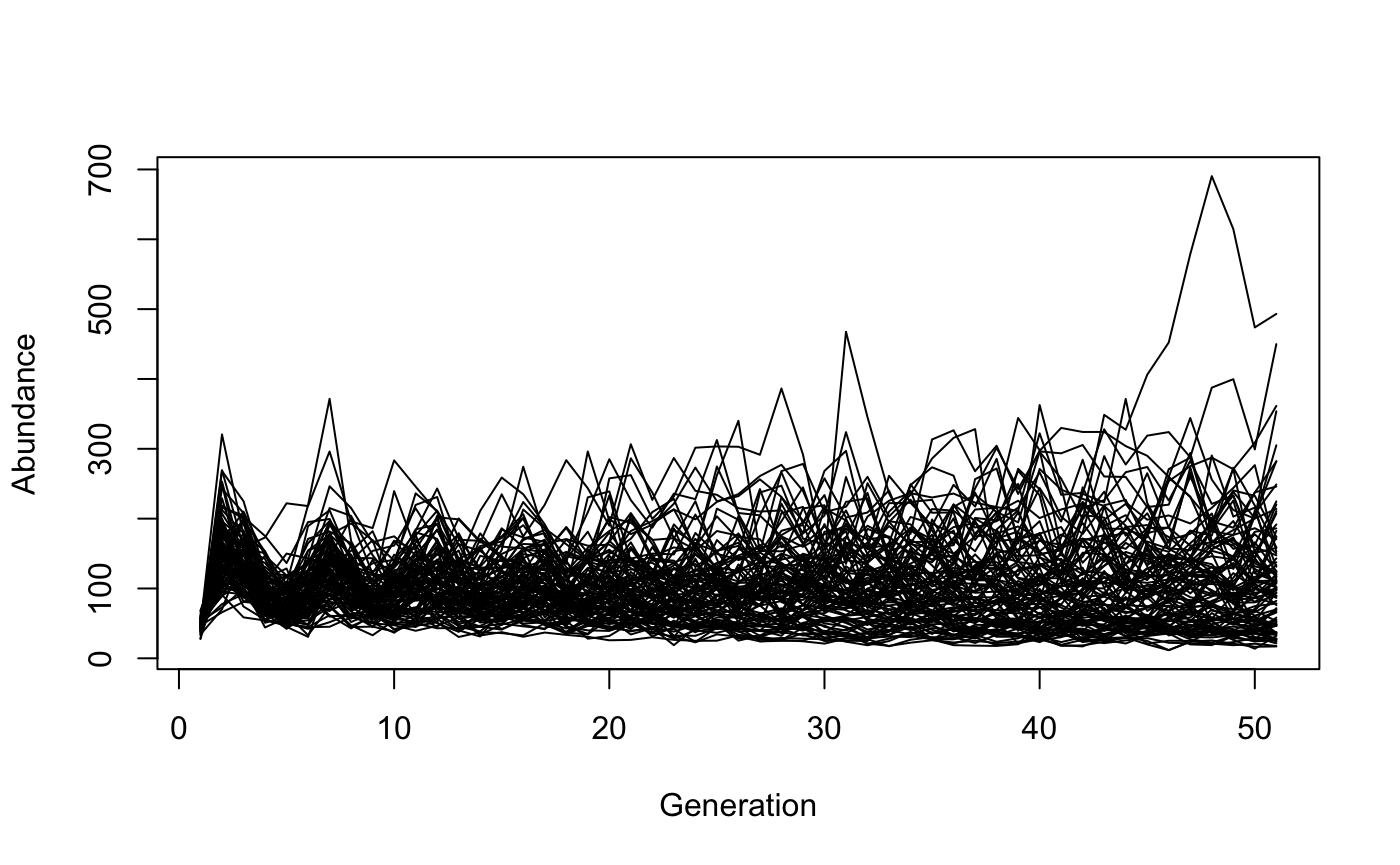
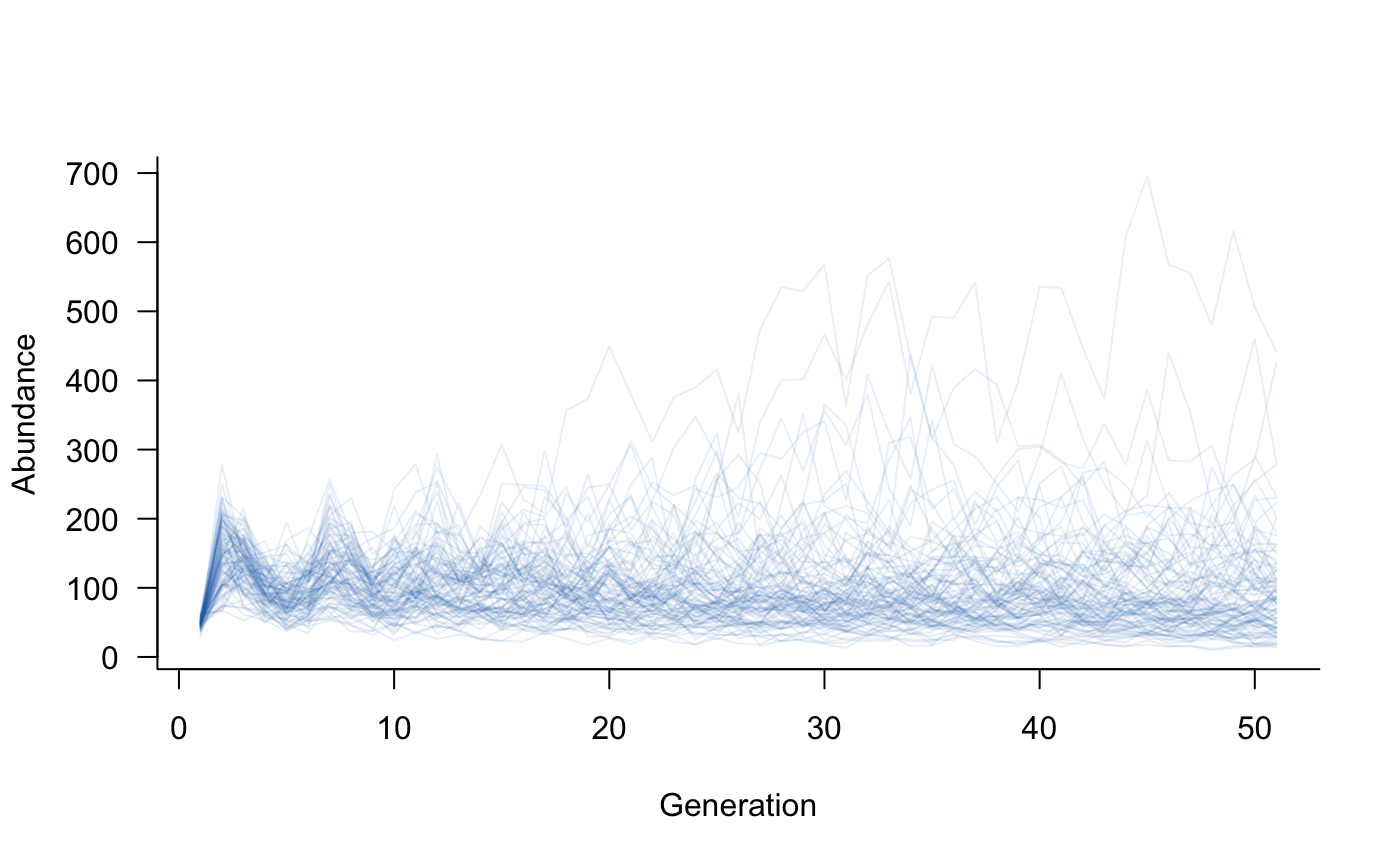
update website and vignettes

diff --git a/docs/articles/get_started.html b/docs/articles/get_started.html
@@ -69,7 +69,10 @@
   </a>
   <ul class="dropdown-menu" role="menu">
 <li>
-      <a href="../articles/macperch_example.html">Macquarie perch population model</a>
+      <a href="../articles/macperch_example.html">Macquarie perch</a>
+    </li>
+    <li>
+      <a href="../articles/scenarios_example.html">Ranking scenarios</a>
     </li>
   </ul>
 </li>
@@ -113,7 +116,13 @@
 <div id="installation-and-setup" class="section level2">
 <h2 class="hasAnchor">
 <a href="#installation-and-setup" class="anchor"></a>Installation and setup</h2>
-<p>You can install the <code>aae.pop</code> package from GitHub. To install from GitHub, you’ll need the <code>remotes</code> R package, which you can install from CRAN with <code><a href="https://rdrr.io/r/utils/install.packages.html">install.packages("remotes")</a></code>. You can then install the <code>aae.pop</code> package from Github with <code><a href="https://rdrr.io/pkg/remotes/man/install_github.html">remotes::install_github("aae.stats/aae.pop@master")</a></code>. Once completed, you should be able to load the <code>aae.pop</code> package with <code><a href="https://aae-stats/github.io/aae.pop">library(aae.pop)</a></code>.</p>
+<p>You can install the <code>aae.pop</code> package from GitHub. To install from GitHub, you’ll need the <code>remotes</code> R package, which you can install from CRAN with:</p>
+<div class="sourceCode" id="cb1"><pre class="downlit">
+<span class="fu"><a href="https://rdrr.io/r/utils/install.packages.html">install.packages</a></span><span class="op">(</span><span class="st">"remotes"</span><span class="op">)</span></pre></div>
+<p>You can then install the <code>aae.pop</code> package from Github with:</p>
+<div class="sourceCode" id="cb2"><pre class="downlit">
+<span class="fu">remotes</span><span class="fu">::</span><span class="fu"><a href="https://rdrr.io/pkg/remotes/man/install_github.html">install_github</a></span><span class="op">(</span><span class="st">"aae-stats/aae.pop"</span><span class="op">)</span></pre></div>
+<p>Once completed, you should be able to load the <code>aae.pop</code> package with <code><a href="https://aae-stats/github.io/aae.pop">library(aae.pop)</a></code>.</p>
 </div>
 <div id="background" class="section level2">
 <h2 class="hasAnchor">
@@ -150,7 +159,7 @@
 <h4 class="hasAnchor">
 <a href="#the-population-matrix" class="anchor"></a>The population matrix</h4>
 <p>A good place to start is with a basic population matrix and no other processes. For example, a Leslie matrix with five age classes can be specified as:</p>
-<div class="sourceCode" id="cb1"><pre class="downlit">
+<div class="sourceCode" id="cb3"><pre class="downlit">
 <span class="va">popmat</span> <span class="op">&lt;-</span> <span class="fu"><a href="https://rdrr.io/r/base/cbind.html">rbind</a></span><span class="op">(</span>
   <span class="fu"><a href="https://rdrr.io/r/base/c.html">c</a></span><span class="op">(</span><span class="fl">0</span>,    <span class="fl">0</span>,    <span class="fl">2</span>,    <span class="fl">4</span>,    <span class="fl">7</span><span class="op">)</span>,  <span class="co"># reproduction from 3-5 year olds</span>
   <span class="fu"><a href="https://rdrr.io/r/base/c.html">c</a></span><span class="op">(</span><span class="fl">0.25</span>, <span class="fl">0</span>,    <span class="fl">0</span>,    <span class="fl">0</span>,    <span class="fl">0</span><span class="op">)</span>,  <span class="co"># survival from age 1 to 2</span>
@@ -159,7 +168,7 @@
   <span class="fu"><a href="https://rdrr.io/r/base/c.html">c</a></span><span class="op">(</span><span class="fl">0</span>,    <span class="fl">0</span>,    <span class="fl">0</span>,    <span class="fl">0.85</span>, <span class="fl">0</span><span class="op">)</span>   <span class="co"># survival from age 4 to 5</span>
 <span class="op">)</span></pre></div>
 <p>Using the terminology above, this same matrix could be specified as:</p>
-<div class="sourceCode" id="cb2"><pre class="downlit">
+<div class="sourceCode" id="cb4"><pre class="downlit">
 <span class="va">new_offspring</span> <span class="op">&lt;-</span> <span class="fu"><a href="https://rdrr.io/r/base/c.html">c</a></span><span class="op">(</span><span class="fl">2</span>, <span class="fl">4</span>, <span class="fl">7</span><span class="op">)</span>
 <span class="va">transition_probabilities</span> <span class="op">&lt;-</span> <span class="fu"><a href="https://rdrr.io/r/base/c.html">c</a></span><span class="op">(</span><span class="fl">0.25</span>, <span class="fl">0.45</span>, <span class="fl">0.70</span>, <span class="fl">0.85</span><span class="op">)</span>
 <span class="va">popmat</span> <span class="op">&lt;-</span> <span class="fu"><a href="https://rdrr.io/r/base/matrix.html">matrix</a></span><span class="op">(</span><span class="fl">0</span>, nrow <span class="op">=</span> <span class="fl">5</span>, ncol <span class="op">=</span> <span class="fl">5</span><span class="op">)</span>
@@ -171,35 +180,37 @@
 <h4 class="hasAnchor">
 <a href="#creating-a-population-dynamics-object" class="anchor"></a>Creating a population <code>dynamics</code> object</h4>
 <p>Once the population matrix is defined, it can be compiled into a <code>dynamics</code> object with the following code:</p>
-<div class="sourceCode" id="cb3"><pre class="downlit">
+<div class="sourceCode" id="cb5"><pre class="downlit">
 <span class="va">popdyn</span> <span class="op">&lt;-</span> <span class="fu"><a href="../reference/dynamics.html">dynamics</a></span><span class="op">(</span><span class="va">popmat</span><span class="op">)</span></pre></div>
 <p>It is possible to plot the population dynamics object to visualise the transitions and structure this implies. This requires the <code>DiagrammeR</code> package. Visualising population structures can be a useful way to check the model has been specified correctly, and these plots are easier to communicate than a giant matrix.</p>
-<div class="sourceCode" id="cb4"><pre class="downlit">
+<div class="sourceCode" id="cb6"><pre class="downlit">
 <span class="fu"><a href="https://rdrr.io/r/graphics/plot.html">plot</a></span><span class="op">(</span><span class="va">popdyn</span><span class="op">)</span></pre></div>
-<div id="htmlwidget-011a0a437525719bc5c2" style="width:700px;height:432.632880098888px;" class="grViz html-widget"></div>
-<script type="application/json" data-for="htmlwidget-011a0a437525719bc5c2">{"x":{"diagram":"digraph {\n\ngraph [layout = \"dot\",\n       outputorder = \"edgesfirst\",\n       bgcolor = \"white\",\n       rankdir = \"LR\"]\n\nnode [fontname = \"Helvetica\",\n      fontsize = \"10\",\n      shape = \"circle\",\n      fixedsize = \"true\",\n      width = \"0.5\",\n      style = \"filled\",\n      fillcolor = \"aliceblue\",\n      color = \"gray70\",\n      fontcolor = \"gray50\"]\n\nedge [fontname = \"Helvetica\",\n     fontsize = \"8\",\n     len = \"1.5\",\n     color = \"gray80\",\n     arrowsize = \"0.5\"]\n\n  \"1\" [label = \"Age 1\", fontcolor = \"#4F7942\", fontsize = \"12\", penwidth = \"2\", shape = \"circle\", color = \"#4F7942\", width = \"0.9\", height = \"0.72\", fillcolor = \"#4F794250\"] \n  \"2\" [label = \"Age 2\", fontcolor = \"#4F7942\", fontsize = \"12\", penwidth = \"2\", shape = \"circle\", color = \"#4F7942\", width = \"0.9\", height = \"0.72\", fillcolor = \"#4F794250\"] \n  \"3\" [label = \"Age 3\", fontcolor = \"#0E4D92\", fontsize = \"12\", penwidth = \"2\", shape = \"circle\", color = \"#0E4D92\", width = \"0.9\", height = \"0.72\", fillcolor = \"#0E4D9250\"] \n  \"4\" [label = \"Age 4\", fontcolor = \"#0E4D92\", fontsize = \"12\", penwidth = \"2\", shape = \"circle\", color = \"#0E4D92\", width = \"0.9\", height = \"0.72\", fillcolor = \"#0E4D9250\"] \n  \"5\" [label = \"Age 5\", fontcolor = \"#0E4D92\", fontsize = \"12\", penwidth = \"2\", shape = \"circle\", color = \"#0E4D92\", width = \"0.9\", height = \"0.72\", fillcolor = \"#0E4D9250\"] \n\"1\"->\"2\" [color = \"Gainsboro\", fontname = \"Avenir\", fontcolor = \"LightGray\", fontsize = \"14\", penwidth = \"4\", label = \"transition\", style = \"solid\"] \n\"2\"->\"3\" [color = \"Gainsboro\", fontname = \"Avenir\", fontcolor = \"LightGray\", fontsize = \"14\", penwidth = \"4\", label = \"transition\", style = \"solid\"] \n\"3\"->\"1\" [color = \"Gainsboro\", fontname = \"Avenir\", fontcolor = \"LightGray\", fontsize = \"14\", penwidth = \"4\", label = \"fecundity\", style = \"dashed\"] \n\"3\"->\"4\" [color = \"Gainsboro\", fontname = \"Avenir\", fontcolor = \"LightGray\", fontsize = \"14\", penwidth = \"4\", label = \"transition\", style = \"solid\"] \n\"4\"->\"1\" [color = \"Gainsboro\", fontname = \"Avenir\", fontcolor = \"LightGray\", fontsize = \"14\", penwidth = \"4\", label = \"fecundity\", style = \"dashed\"] \n\"4\"->\"5\" [color = \"Gainsboro\", fontname = \"Avenir\", fontcolor = \"LightGray\", fontsize = \"14\", penwidth = \"4\", label = \"transition\", style = \"solid\"] \n\"5\"->\"1\" [color = \"Gainsboro\", fontname = \"Avenir\", fontcolor = \"LightGray\", fontsize = \"14\", penwidth = \"4\", label = \"fecundity\", style = \"dashed\"] \n}","config":{"engine":"dot","options":null}},"evals":[],"jsHooks":[]}</script>
+<div id="htmlwidget-5e72a008414bd2677d89" style="width:700px;height:432.632880098888px;" class="grViz html-widget"></div>
+<script type="application/json" data-for="htmlwidget-5e72a008414bd2677d89">{"x":{"diagram":"digraph {\n\ngraph [layout = \"dot\",\n       outputorder = \"edgesfirst\",\n       bgcolor = \"white\",\n       rankdir = \"LR\"]\n\nnode [fontname = \"Helvetica\",\n      fontsize = \"10\",\n      shape = \"circle\",\n      fixedsize = \"true\",\n      width = \"0.5\",\n      style = \"filled\",\n      fillcolor = \"aliceblue\",\n      color = \"gray70\",\n      fontcolor = \"gray50\"]\n\nedge [fontname = \"Helvetica\",\n     fontsize = \"8\",\n     len = \"1.5\",\n     color = \"gray80\",\n     arrowsize = \"0.5\"]\n\n  \"1\" [label = \"Age 1\", fontcolor = \"#4F7942\", fontsize = \"12\", penwidth = \"2\", shape = \"circle\", color = \"#4F7942\", width = \"0.9\", height = \"0.72\", fillcolor = \"#4F794250\"] \n  \"2\" [label = \"Age 2\", fontcolor = \"#4F7942\", fontsize = \"12\", penwidth = \"2\", shape = \"circle\", color = \"#4F7942\", width = \"0.9\", height = \"0.72\", fillcolor = \"#4F794250\"] \n  \"3\" [label = \"Age 3\", fontcolor = \"#0E4D92\", fontsize = \"12\", penwidth = \"2\", shape = \"circle\", color = \"#0E4D92\", width = \"0.9\", height = \"0.72\", fillcolor = \"#0E4D9250\"] \n  \"4\" [label = \"Age 4\", fontcolor = \"#0E4D92\", fontsize = \"12\", penwidth = \"2\", shape = \"circle\", color = \"#0E4D92\", width = \"0.9\", height = \"0.72\", fillcolor = \"#0E4D9250\"] \n  \"5\" [label = \"Age 5\", fontcolor = \"#0E4D92\", fontsize = \"12\", penwidth = \"2\", shape = \"circle\", color = \"#0E4D92\", width = \"0.9\", height = \"0.72\", fillcolor = \"#0E4D9250\"] \n\"1\"->\"2\" [color = \"Gainsboro\", fontname = \"Avenir\", fontcolor = \"LightGray\", fontsize = \"14\", penwidth = \"4\", label = \"transition\", style = \"solid\"] \n\"2\"->\"3\" [color = \"Gainsboro\", fontname = \"Avenir\", fontcolor = \"LightGray\", fontsize = \"14\", penwidth = \"4\", label = \"transition\", style = \"solid\"] \n\"3\"->\"1\" [color = \"Gainsboro\", fontname = \"Avenir\", fontcolor = \"LightGray\", fontsize = \"14\", penwidth = \"4\", label = \"fecundity\", style = \"dashed\"] \n\"3\"->\"4\" [color = \"Gainsboro\", fontname = \"Avenir\", fontcolor = \"LightGray\", fontsize = \"14\", penwidth = \"4\", label = \"transition\", style = \"solid\"] \n\"4\"->\"1\" [color = \"Gainsboro\", fontname = \"Avenir\", fontcolor = \"LightGray\", fontsize = \"14\", penwidth = \"4\", label = \"fecundity\", style = \"dashed\"] \n\"4\"->\"5\" [color = \"Gainsboro\", fontname = \"Avenir\", fontcolor = \"LightGray\", fontsize = \"14\", penwidth = \"4\", label = \"transition\", style = \"solid\"] \n\"5\"->\"1\" [color = \"Gainsboro\", fontname = \"Avenir\", fontcolor = \"LightGray\", fontsize = \"14\", penwidth = \"4\", label = \"fecundity\", style = \"dashed\"] \n}","config":{"engine":"dot","options":null}},"evals":[],"jsHooks":[]}</script>
 </div>
 <div id="simulating-population-trajectories" class="section level4">
 <h4 class="hasAnchor">
 <a href="#simulating-population-trajectories" class="anchor"></a>Simulating population trajectories</h4>
 <p>With a compiled <code>dynamics</code> object, it’s relatively straightforward to simulate some population trajectories (with default settings):</p>
-<div class="sourceCode" id="cb5"><pre class="downlit">
+<div class="sourceCode" id="cb7"><pre class="downlit">
 <span class="va">sims</span> <span class="op">&lt;-</span> <span class="fu"><a href="../reference/simulate.html">simulate</a></span><span class="op">(</span><span class="va">popdyn</span><span class="op">)</span></pre></div>
-<p>Simulated trajectories can be plotted using the standard <code>plot</code> function in R.</p>
-<div class="sourceCode" id="cb6"><pre class="downlit">
-<span class="fu"><a href="https://rdrr.io/r/graphics/plot.html">plot</a></span><span class="op">(</span><span class="va">sims</span>, xlab <span class="op">=</span> <span class="st">"Generation"</span>, ylab <span class="op">=</span> <span class="st">"Abundance"</span><span class="op">)</span></pre></div>
-<p><img src="get_started_files/figure-html/unnamed-chunk-6-1.png" width="700"></p>
+<p>Simulated trajectories can be plotted using the standard <code>plot</code> function in R. This example sets the colour to a medium shade of blue with 90% transparency:</p>
+<div class="sourceCode" id="cb8"><pre class="downlit">
+<span class="fu"><a href="https://rdrr.io/r/graphics/plot.html">plot</a></span><span class="op">(</span><span class="va">sims</span>, col <span class="op">=</span> <span class="fu">scales</span><span class="fu">::</span><span class="fu"><a href="https://scales.r-lib.org//reference/alpha.html">alpha</a></span><span class="op">(</span><span class="st">"#2171B5"</span>, <span class="fl">0.1</span><span class="op">)</span><span class="op">)</span></pre></div>
+<p><img src="get_started_files/figure-html/unnamed-chunk-8-1.png" width="700"></p>
 </div>
 <div id="changing-default-settings" class="section level4">
 <h4 class="hasAnchor">
 <a href="#changing-default-settings" class="anchor"></a>Changing default settings</h4>
 <p>The default settings simulate a single trajectory with 50 time steps, from random initial conditions (Poisson draws with <span class="math inline">\(\lambda = 10\)</span>). These settings can be changed directly in the call to <code>simulate</code>:</p>
-<div class="sourceCode" id="cb7"><pre class="downlit">
+<div class="sourceCode" id="cb9"><pre class="downlit">
 <span class="va">initials</span> <span class="op">&lt;-</span> <span class="fu"><a href="https://rdrr.io/r/base/c.html">c</a></span><span class="op">(</span><span class="fl">100</span>, <span class="fl">50</span>, <span class="fl">20</span>, <span class="fl">10</span>, <span class="fl">5</span><span class="op">)</span>  <span class="co"># some initial conditions</span>
 <span class="va">sims</span> <span class="op">&lt;-</span> <span class="fu"><a href="../reference/simulate.html">simulate</a></span><span class="op">(</span><span class="va">popdyn</span>,
                  nsim <span class="op">=</span> <span class="fl">100</span>,
                  init <span class="op">=</span> <span class="va">initials</span>,
-                 options <span class="op">=</span> <span class="fu"><a href="https://rdrr.io/r/base/list.html">list</a></span><span class="op">(</span>ntime <span class="op">=</span> <span class="fl">20</span><span class="op">)</span><span class="op">)</span></pre></div>
+                 options <span class="op">=</span> <span class="fu"><a href="https://rdrr.io/r/base/list.html">list</a></span><span class="op">(</span>ntime <span class="op">=</span> <span class="fl">20</span><span class="op">)</span><span class="op">)</span>
+<span class="fu"><a href="https://rdrr.io/r/graphics/plot.html">plot</a></span><span class="op">(</span><span class="va">sims</span>, col <span class="op">=</span> <span class="fu">scales</span><span class="fu">::</span><span class="fu"><a href="https://scales.r-lib.org//reference/alpha.html">alpha</a></span><span class="op">(</span><span class="st">"#2171B5"</span>, <span class="fl">0.1</span><span class="op">)</span><span class="op">)</span></pre></div>
+<p><img src="get_started_files/figure-html/unnamed-chunk-9-1.png" width="700"></p>
 <p>Default settings also specify that population updates are calculated as a cross product and that abundances are not rounded in any way in each step, which allows fractional individuals in the population. These are not ideal settings. Changing them is covered in the <a href="beyond_defaults.html">Beyond defaults</a> vignette.</p>
 </div>
 </div>

diff --git a/docs/articles/passing_arguments.html b/docs/articles/passing_arguments.html
@@ -5,13 +5,13 @@
 <meta charset="utf-8">
 <meta http-equiv="X-UA-Compatible" content="IE=edge">
 <meta name="viewport" content="width=device-width, initial-scale=1.0">
-<title>Moving beyond default settings in aae.pop • aae.pop</title>
+<title>Passing arguments to demographic processes • aae.pop</title>
 <!-- jquery --><script src="https://cdnjs.cloudflare.com/ajax/libs/jquery/3.4.1/jquery.min.js" integrity="sha256-CSXorXvZcTkaix6Yvo6HppcZGetbYMGWSFlBw8HfCJo=" crossorigin="anonymous"></script><!-- Bootstrap --><link href="https://cdnjs.cloudflare.com/ajax/libs/bootswatch/3.4.0/flatly/bootstrap.min.css" rel="stylesheet" crossorigin="anonymous">
 <script src="https://cdnjs.cloudflare.com/ajax/libs/twitter-bootstrap/3.4.1/js/bootstrap.min.js" integrity="sha256-nuL8/2cJ5NDSSwnKD8VqreErSWHtnEP9E7AySL+1ev4=" crossorigin="anonymous"></script><!-- bootstrap-toc --><link rel="stylesheet" href="../bootstrap-toc.css">
 <script src="../bootstrap-toc.js"></script><!-- Font Awesome icons --><link rel="stylesheet" href="https://cdnjs.cloudflare.com/ajax/libs/font-awesome/5.12.1/css/all.min.css" integrity="sha256-mmgLkCYLUQbXn0B1SRqzHar6dCnv9oZFPEC1g1cwlkk=" crossorigin="anonymous">
 <link rel="stylesheet" href="https://cdnjs.cloudflare.com/ajax/libs/font-awesome/5.12.1/css/v4-shims.min.css" integrity="sha256-wZjR52fzng1pJHwx4aV2AO3yyTOXrcDW7jBpJtTwVxw=" crossorigin="anonymous">
 <!-- clipboard.js --><script src="https://cdnjs.cloudflare.com/ajax/libs/clipboard.js/2.0.6/clipboard.min.js" integrity="sha256-inc5kl9MA1hkeYUt+EC3BhlIgyp/2jDIyBLS6k3UxPI=" crossorigin="anonymous"></script><!-- headroom.js --><script src="https://cdnjs.cloudflare.com/ajax/libs/headroom/0.11.0/headroom.min.js" integrity="sha256-AsUX4SJE1+yuDu5+mAVzJbuYNPHj/WroHuZ8Ir/CkE0=" crossorigin="anonymous"></script><script src="https://cdnjs.cloudflare.com/ajax/libs/headroom/0.11.0/jQuery.headroom.min.js" integrity="sha256-ZX/yNShbjqsohH1k95liqY9Gd8uOiE1S4vZc+9KQ1K4=" crossorigin="anonymous"></script><!-- pkgdown --><link href="../pkgdown.css" rel="stylesheet">
-<script src="../pkgdown.js"></script><meta property="og:title" content="Moving beyond default settings in aae.pop">
+<script src="../pkgdown.js"></script><meta property="og:title" content="Passing arguments to demographic processes">
 <meta property="og:description" content="aae.pop">
 <!-- mathjax --><script src="https://cdnjs.cloudflare.com/ajax/libs/mathjax/2.7.5/MathJax.js" integrity="sha256-nvJJv9wWKEm88qvoQl9ekL2J+k/RWIsaSScxxlsrv8k=" crossorigin="anonymous"></script><script src="https://cdnjs.cloudflare.com/ajax/libs/mathjax/2.7.5/config/TeX-AMS-MML_HTMLorMML.js" integrity="sha256-84DKXVJXs0/F8OTMzX4UR909+jtl4G7SPypPavF+GfA=" crossorigin="anonymous"></script><!--[if lt IE 9]>
 <script src="https://oss.maxcdn.com/html5shiv/3.7.3/html5shiv.min.js"></script>
@@ -100,13 +100,13 @@
       </header><div class="row">
   <div class="col-md-9 contents">
     <div class="page-header toc-ignore">
-      <h1 data-toc-skip>Moving beyond default settings in aae.pop</h1>
+      <h1 data-toc-skip>Passing arguments to demographic processes</h1>
                         <h4 class="author">Jian Yen</h4>
             
             <h4 class="date">13/10/2020</h4>
       
-      <small class="dont-index">Source: <a href="https://github.com/aae-stats/aae.pop/blob/master/vignettes/beyond_defaults.Rmd"><code>vignettes/beyond_defaults.Rmd</code></a></small>
-      <div class="hidden name"><code>beyond_defaults.Rmd</code></div>
+      <small class="dont-index">Source: <a href="https://github.com/aae-stats/aae.pop/blob/master/vignettes/passing_arguments.Rmd"><code>vignettes/passing_arguments.Rmd</code></a></small>
+      <div class="hidden name"><code>passing_arguments.Rmd</code></div>
 
     </div>
 
@@ -115,7 +115,7 @@
 <div id="r-markdown" class="section level2">
 <h2 class="hasAnchor">
 <a href="#r-markdown" class="anchor"></a>R Markdown</h2>
-<p>Cover things like updaters, adding your own update step or C++ code, etc. Also cover default opts and ways to tweak these (plus reasons to do so). Initial conidtions.</p>
+<p>Cover args, args.dyn, and args.fn. Explain when/why this is useful.</p>
 <div class="sourceCode" id="cb1"><pre class="downlit">
 <span class="va">a</span> <span class="op">&lt;-</span> <span class="fu"><a href="https://rdrr.io/r/stats/Normal.html">rnorm</a></span><span class="op">(</span><span class="fl">10</span><span class="op">)</span></pre></div>
 </div>

diff --git a/docs/articles/including_processes.html b/docs/articles/including_processes.html
@@ -69,7 +69,10 @@
   </a>
   <ul class="dropdown-menu" role="menu">
 <li>
-      <a href="../articles/macperch_example.html">Macquarie perch population model</a>
+      <a href="../articles/macperch_example.html">Macquarie perch</a>
+    </li>
+    <li>
+      <a href="../articles/scenarios_example.html">Ranking scenarios</a>
     </li>
   </ul>
 </li>
@@ -172,7 +175,7 @@
 <span class="va">sims</span> <span class="op">&lt;-</span> <span class="fu"><a href="../reference/simulate.html">simulate</a></span><span class="op">(</span><span class="va">popdyn</span>, nsim <span class="op">=</span> <span class="fl">100</span><span class="op">)</span>
 
 <span class="co"># plot the population trajectories</span>
-<span class="fu"><a href="https://rdrr.io/r/graphics/plot.html">plot</a></span><span class="op">(</span><span class="va">sims</span>, xlab <span class="op">=</span> <span class="st">"Generation"</span>, ylab <span class="op">=</span> <span class="st">"Abundance"</span><span class="op">)</span></pre></div>
+<span class="fu"><a href="https://rdrr.io/r/graphics/plot.html">plot</a></span><span class="op">(</span><span class="va">sims</span>, col <span class="op">=</span> <span class="fu">scales</span><span class="fu">::</span><span class="fu"><a href="https://scales.r-lib.org//reference/alpha.html">alpha</a></span><span class="op">(</span><span class="st">"#2171B5"</span>, <span class="fl">0.1</span><span class="op">)</span><span class="op">)</span></pre></div>
 <p><img src="including_processes_files/figure-html/unnamed-chunk-4-1.png" width="700"></p>
 </div>
 <div id="environmental-stochasticity" class="section level4">
@@ -218,7 +221,7 @@
 <span class="va">sims</span> <span class="op">&lt;-</span> <span class="fu"><a href="../reference/simulate.html">simulate</a></span><span class="op">(</span><span class="va">popdyn</span>, nsim <span class="op">=</span> <span class="fl">100</span><span class="op">)</span>
 
 <span class="co"># plot the population trajectories</span>
-<span class="fu"><a href="https://rdrr.io/r/graphics/plot.html">plot</a></span><span class="op">(</span><span class="va">sims</span>, xlab <span class="op">=</span> <span class="st">"Generation"</span>, ylab <span class="op">=</span> <span class="st">"Abundance"</span><span class="op">)</span></pre></div>
+<span class="fu"><a href="https://rdrr.io/r/graphics/plot.html">plot</a></span><span class="op">(</span><span class="va">sims</span>, col <span class="op">=</span> <span class="fu">scales</span><span class="fu">::</span><span class="fu"><a href="https://scales.r-lib.org//reference/alpha.html">alpha</a></span><span class="op">(</span><span class="st">"#2171B5"</span>, <span class="fl">0.1</span><span class="op">)</span><span class="op">)</span></pre></div>
 <p><img src="including_processes_files/figure-html/unnamed-chunk-8-1.png" width="700"></p>
 <p>It is easy to include both environmental and demographic stochasticity in the same model. The <code>dynamics</code> call simply needs both <code>envstoch</code> and <code>demostoch</code> objects:</p>
 <div class="sourceCode" id="cb9"><pre class="downlit">
@@ -229,7 +232,7 @@
 <span class="va">sims</span> <span class="op">&lt;-</span> <span class="fu"><a href="../reference/simulate.html">simulate</a></span><span class="op">(</span><span class="va">popdyn</span>, nsim <span class="op">=</span> <span class="fl">100</span><span class="op">)</span>
 
 <span class="co"># plot the population trajectories</span>
-<span class="fu"><a href="https://rdrr.io/r/graphics/plot.html">plot</a></span><span class="op">(</span><span class="va">sims</span>, xlab <span class="op">=</span> <span class="st">"Generation"</span>, ylab <span class="op">=</span> <span class="st">"Abundance"</span><span class="op">)</span></pre></div>
+<span class="fu"><a href="https://rdrr.io/r/graphics/plot.html">plot</a></span><span class="op">(</span><span class="va">sims</span>, col <span class="op">=</span> <span class="fu">scales</span><span class="fu">::</span><span class="fu"><a href="https://scales.r-lib.org//reference/alpha.html">alpha</a></span><span class="op">(</span><span class="st">"#2171B5"</span>, <span class="fl">0.1</span><span class="op">)</span><span class="op">)</span></pre></div>
 <p><img src="including_processes_files/figure-html/unnamed-chunk-9-1.png" width="700"></p>
 </div>
 <div id="density-dependence" class="section level4">

diff --git a/docs/index.html b/docs/index.html
@@ -104,10 +104,10 @@
 <div id="aae-pop-population-dynamics-models-in-r" class="section level2">
 <h2 class="hasAnchor">
 <a href="#aae-pop-population-dynamics-models-in-r" class="anchor"></a>aae.pop: population dynamics models in R</h2>
-<p>aae.pop is an R package to simulate matrix population models. It’s designed to be fast, flexible, and easily adapted to different model structures.</p>
-<p>The <a href="https://aae-stats.github.io/aae.pop">website</a> includes a <a href="https://aae-stats.github.io/aae.pop/articles/get_started.html">quick start guide</a>, examples, vignettes, and <a href="https://aae-stats.github.io/aae.pop/reference/index.html">package documentation</a>. You can install the current version of the package from Github:</p>
+<p>aae.pop is a plug-and-play tool to simulate matrix population models. It’s designed to be fast, flexible, and easily adapted to different model structures.</p>
+<p>This website includes a <a href="articles/get_started.html">quick start guide</a>, examples, vignettes, and <a href="reference/index.html">package documentation</a>. You can install the current version of the package from Github:</p>
 <div class="sourceCode" id="cb1"><pre class="downlit">
-<span class="fu">remotes</span><span class="fu">::</span><span class="fu"><a href="https://rdrr.io/pkg/remotes/man/install_github.html">install_github</a></span><span class="op">(</span><span class="st">"aae.stats/aae.pop@master"</span><span class="op">)</span></pre></div>
+<span class="fu">remotes</span><span class="fu">::</span><span class="fu"><a href="https://rdrr.io/pkg/remotes/man/install_github.html">install_github</a></span><span class="op">(</span><span class="st">"aae-stats/aae.pop"</span><span class="op">)</span></pre></div>
 <!-- badges: start -->
 
 <!-- badges: end -->

diff --git a/docs/articles/index.html b/docs/articles/index.html
@@ -160,6 +160,8 @@
         <dd></dt>
         <dt><a href="multiple_species.html">Models of interacting species</a></dt>
         <dd></dt>
+        <dt><a href="passing_arguments.html">Passing arguments to demographic processes</a></dt>
+        <dd></dt>
         <dt><a href="scenarios_example.html">Comparing scenarios with population models</a></dt>
         <dd></dt>
       </dl>

diff --git a/docs/articles/macperch_example.html b/docs/articles/macperch_example.html
@@ -69,7 +69,10 @@
   </a>
   <ul class="dropdown-menu" role="menu">
 <li>
-      <a href="../articles/macperch_example.html">Macquarie perch population model</a>
+      <a href="../articles/macperch_example.html">Macquarie perch</a>
+    </li>
+    <li>
+      <a href="../articles/scenarios_example.html">Ranking scenarios</a>
     </li>
   </ul>
 </li>

diff --git a/docs/articles/metapopulations.html b/docs/articles/metapopulations.html
@@ -69,7 +69,10 @@
   </a>
   <ul class="dropdown-menu" role="menu">
 <li>
-      <a href="../articles/macperch_example.html">Macquarie perch population model</a>
+      <a href="../articles/macperch_example.html">Macquarie perch</a>
+    </li>
+    <li>
+      <a href="../articles/scenarios_example.html">Ranking scenarios</a>
     </li>
   </ul>
 </li>

diff --git a/docs/articles/multiple_species.html b/docs/articles/multiple_species.html
@@ -69,7 +69,10 @@
   </a>
   <ul class="dropdown-menu" role="menu">
 <li>
-      <a href="../articles/macperch_example.html">Macquarie perch population model</a>
+      <a href="../articles/macperch_example.html">Macquarie perch</a>
+    </li>
+    <li>
+      <a href="../articles/scenarios_example.html">Ranking scenarios</a>
     </li>
   </ul>
 </li>

diff --git a/docs/articles/scenarios_example.html b/docs/articles/scenarios_example.html
@@ -69,7 +69,10 @@
   </a>
   <ul class="dropdown-menu" role="menu">
 <li>
-      <a href="../articles/macperch_example.html">Macquarie perch population model</a>
+      <a href="../articles/macperch_example.html">Macquarie perch</a>
+    </li>
+    <li>
+      <a href="../articles/scenarios_example.html">Ranking scenarios</a>
     </li>
   </ul>
 </li>

diff --git a/index.md b/index.md
@@ -2,11 +2,11 @@
 
 aae.pop is a plug-and-play tool to simulate matrix population models. It's designed to be fast, flexible, and easily adapted to different model structures.
 
-This website includes a [quick start guide](https://aae-stats.github.io/aae.pop/articles/get_started.html), examples, vignettes, and [package documentation](https://aae-stats.github.io/aae.pop/reference/index.html). 
+This website includes a [quick start guide](articles/get_started.html), examples, vignettes, and [package documentation](reference/index.html). 
 You can install the current version of the package from Github:
 
 ``` r
-remotes::install_github("aae.stats/aae.pop")
+remotes::install_github("aae-stats/aae.pop")
 ```
 
 <!-- badges: start -->

diff --git a/README.md b/README.md
@@ -6,7 +6,7 @@ The [website](https://aae-stats.github.io/aae.pop) includes a [quick start guide
 You can install the current version of the package from Github:
 
 ``` r
-remotes::install_github("aae.stats/aae.pop")
+remotes::install_github("aae-stats/aae.pop")
 ```
 
 <!-- badges: start -->
